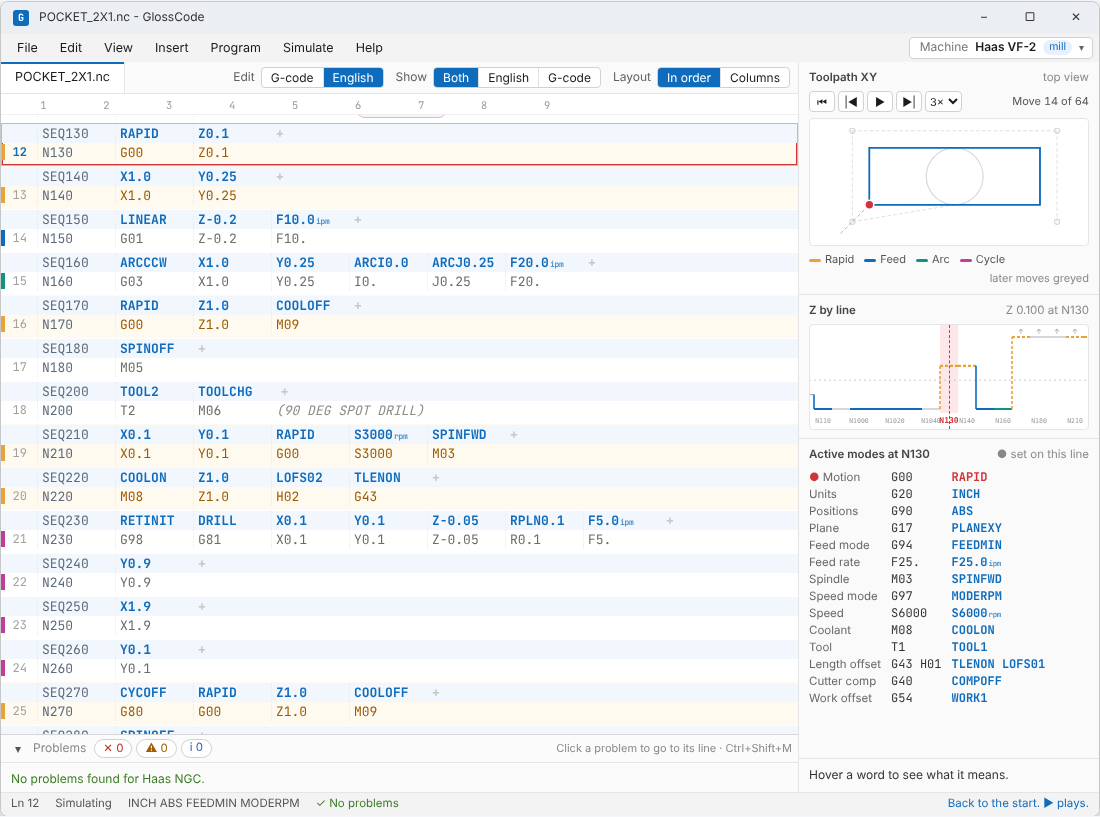
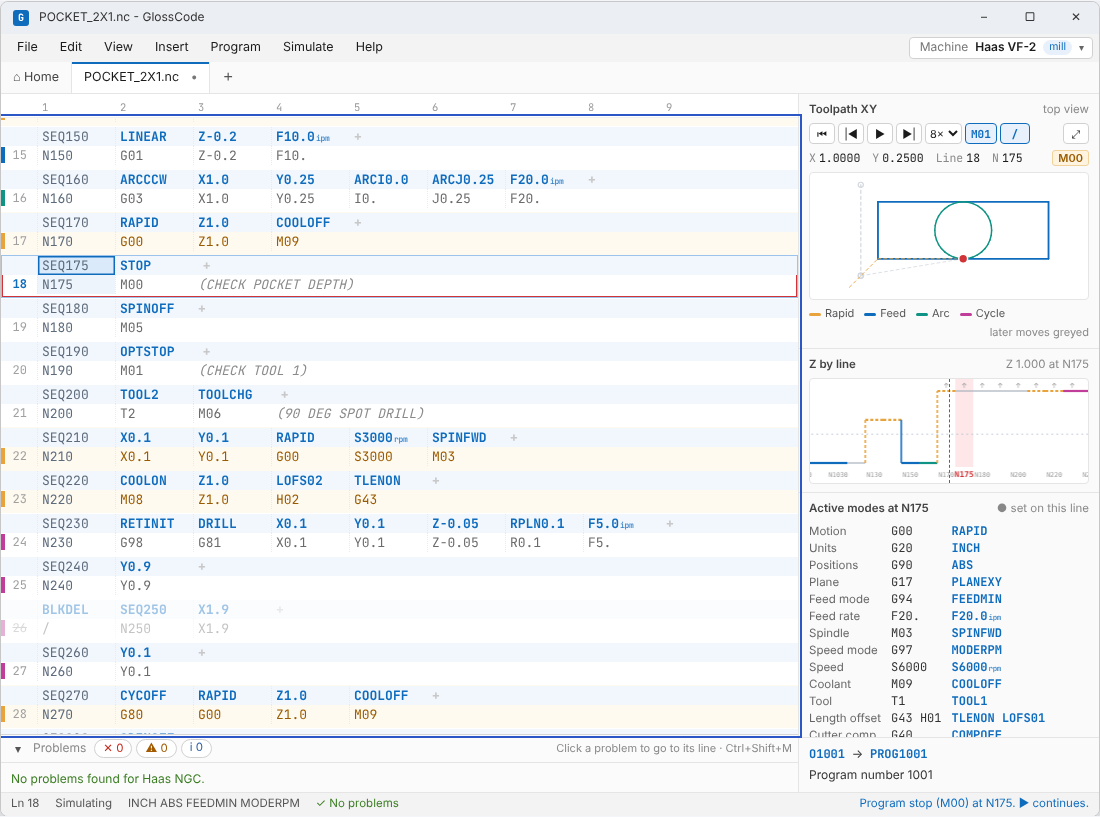
Docs: retake the simulation screenshot, add the expanded view
Claude-Session: https://claude.ai/code/session_01DvnM2ET3HhJeEV7fUbJh6v

diff --git a/README.md b/README.md
@@ -34,6 +34,10 @@ The English words come from a dictionary of consistent abbreviations ([`data/gco
 |---|---|---|
 | ![Problems panel](docs/images/problems.png) | ![Lathe checks](docs/images/lathe-checks.png) | ![Okuma mill](docs/images/okuma-mill.png) |
 
+| Expanded simulation view |
+|---|
+| ![Expanded simulation view](docs/images/simulation-expanded.png) |
+
 | Word hints | Canned cycle guide | End of block |
 |---|---|---|
 | ![Word hints](docs/images/word-hints.png) | ![Canned cycle guide](docs/images/cycle-guide.png) | ![End of block](docs/images/end-of-block.png) |
